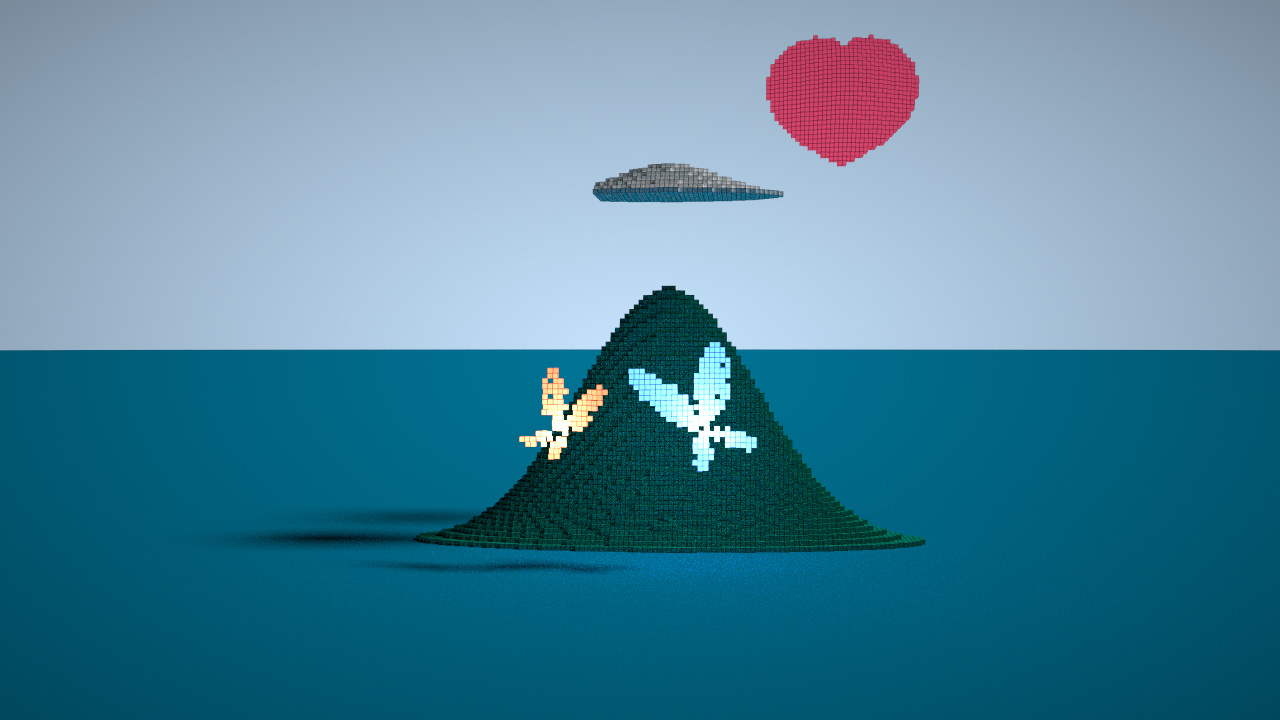
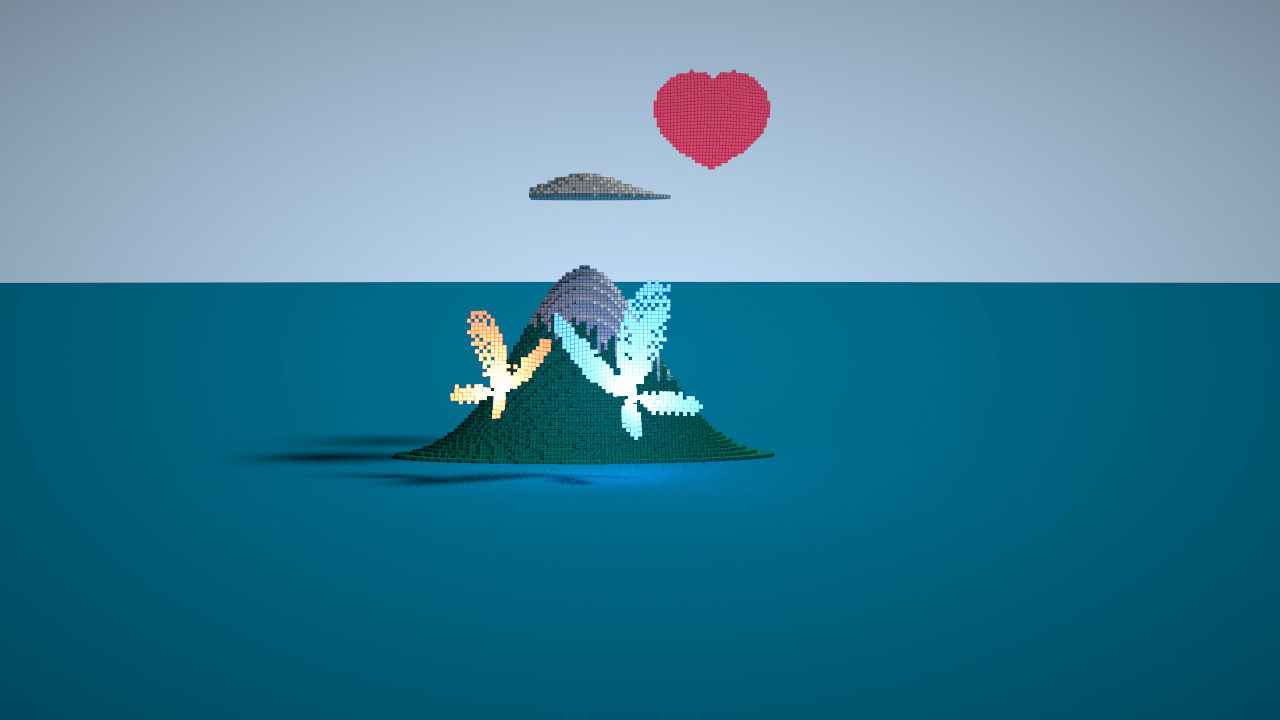
1.add amplitude to butterfly;2.add snow to the mountain

Changed region(s): [[0.0, 0.3667, 1.0, 0.825], [0.4062, 0.0306, 0.7188, 0.3056]]

diff --git a/main.py b/main.py
@@ -10,27 +10,25 @@ scene.set_floor(-1, (0.0, 0.3, 0.5))
 scene.set_directional_light((1, 1, 0), 0.2, vec3(1.0, 1.0, 1.0) / exposure)
 scene.set_background_color(vec3(0.6, 0.8, 1.0) / exposure)
 
-@ti.func
-def create_moon(pos, radius, color):
-    for I in ti.grouped(ti.ndrange((-radius, radius), (-radius, radius), (-radius, radius))):
-        if I.norm() < radius:
-           scene.set_voxel(pos + I, 2, color)
 
 @ti.func
-def create_butterfly(pos, sz, axis, angle, color):
-    xscale = 5
-    yscale = 4
+def create_butterfly(pos, sz, axis, angle, amplitude, color):
+    xscale = 3
+    yscale = 2.6
     for I in ti.grouped(ti.ndrange((-sz, sz), (-sz, sz))):
-        tmp = vec2([I[0],I[1]])
+        tmp = vec2([I[0]+0.5,I[1]+0.5])
         tmp[0] = tmp[0] / sz * xscale
-        tmp[1] = tmp[1] / sz * yscale - 0.5
+        tmp[1] = tmp[1] / sz * yscale + 0.55
         pol_r = tmp.norm()
-        pol_theta = ti.asin(tmp[1] / pol_r) + 4*ti.math.pi
-
+        pol_theta = ti.asin(tmp[1] / pol_r) + 4 * ti.math.pi
         sdf = pol_r - ( ti.exp(ti.sin(pol_theta))-2*ti.cos(4*pol_theta)+ti.pow(ti.sin(2*pol_theta-ti.math.pi)/24,5) )
         if sdf < 0:
-            scene.set_voxel(pos + ti.math.rotate3d(vec3(I, pol_r),axis,angle), 2, color/pol_r)
-            scene.set_voxel(pos + ti.math.rotate3d(vec3(I, pol_r-1), axis, angle), 2, color / pol_r)
+            scene.set_voxel(pos + ti.math.rotate3d(vec3(I, ti.abs(I[0])*ti.pow(I.norm()/(ti.sqrt(2)*sz), 1 / amplitude) ), axis, angle), 2,
+                            color / pol_r)
+            scene.set_voxel(pos + ti.math.rotate3d(vec3(I, ti.abs(I[0])*ti.pow(I.norm()/(ti.sqrt(2)*sz), 1 / amplitude) + 1), axis, angle), 2,
+                            color / pol_r)
+
+
 
 @ti.func
 def create_moutain(pos, sz, height, color):
@@ -39,6 +37,7 @@ def create_moutain(pos, sz, height, color):
     for I in ti.grouped(ti.ndrange((-sz, sz), (-sz, sz))):
         y_axis = height * ti.exp(-(ti.pow(I[0]/sz*2,2)/ti.pow(sigma[0],2)+ti.pow(I[1]/sz*2,2)/ti.pow(sigma[1],2))/2) / (2 * ti.math.pi * ti.sqrt(sigma[0] * sigma[1]))
         for i in range(y_axis):
+            if i > 40: color = vec3(1.0,1.0,1.0)
             scene.set_voxel(pos + ivec3(I[0], i, I[1]), 1, color)
 
 @ti.func
@@ -58,7 +57,6 @@ def create_heart(pos, sz, color):
     3-3*sin(@theta)+sin(@theta)*sqrt(abs(cos(@theta)))/(sin(@theta)+1.6)
     @theta=[0, 2 @ pi, 33], color = red, shade = middle)
     '''
-    #ti.loop_config(serialize=False)
     for I in ti.grouped(ti.ndrange((-sz, sz), (-sz, sz))):
         tmp = vec2([I[0]+0.5,I[1]+0.5])
         tmp[0] = tmp[0] / sz * 4
@@ -82,13 +80,12 @@ def initialize_voxels():
     # create stars
     '''for I in ti.grouped(ti.ndrange((-64, 63), (-64, 63), (-64, -60))):
         if ti.random() < 0.003: scene.set_voxel(I, 2, vec3(1.0, 1.0, 0.1))'''
-    create_butterfly(vec3(10,-40,40), 15, vec3(-1, 1, 1), radians(30), vec3(0.1, 0.3, 0.8))
-    create_butterfly(vec3(-20, -40, 40), 10, vec3(1, 1, 1), radians(-30), vec3(0.8, 0.2, 0.1))
+    create_butterfly(vec3(10,-40,40), 15, vec3(-1, 1, 1), radians(30), 1.5, vec3(0.1, 0.3, 0.8))
+    create_butterfly(vec3(-20, -40, 40), 10, vec3(1, 1, 1), radians(-30), 1.8, vec3(0.8, 0.2, 0.1))
     create_moutain(vec3(0,-64,0),128,60,vec3(0,0.3,0.2))
     create_cloud(vec3(0,10,0), 20 , 20, vec3(1.0,1.0,1.0))
     if night_mode:
         create_heart(ivec3(40, 40, -40), 20, vec3(0.8, 0.1, 0.2))
-    #    create_moon(ivec3(40, 40, -40), 10, vec3(1.0, 1.0, 0.1))
 
 initialize_voxels()
 
